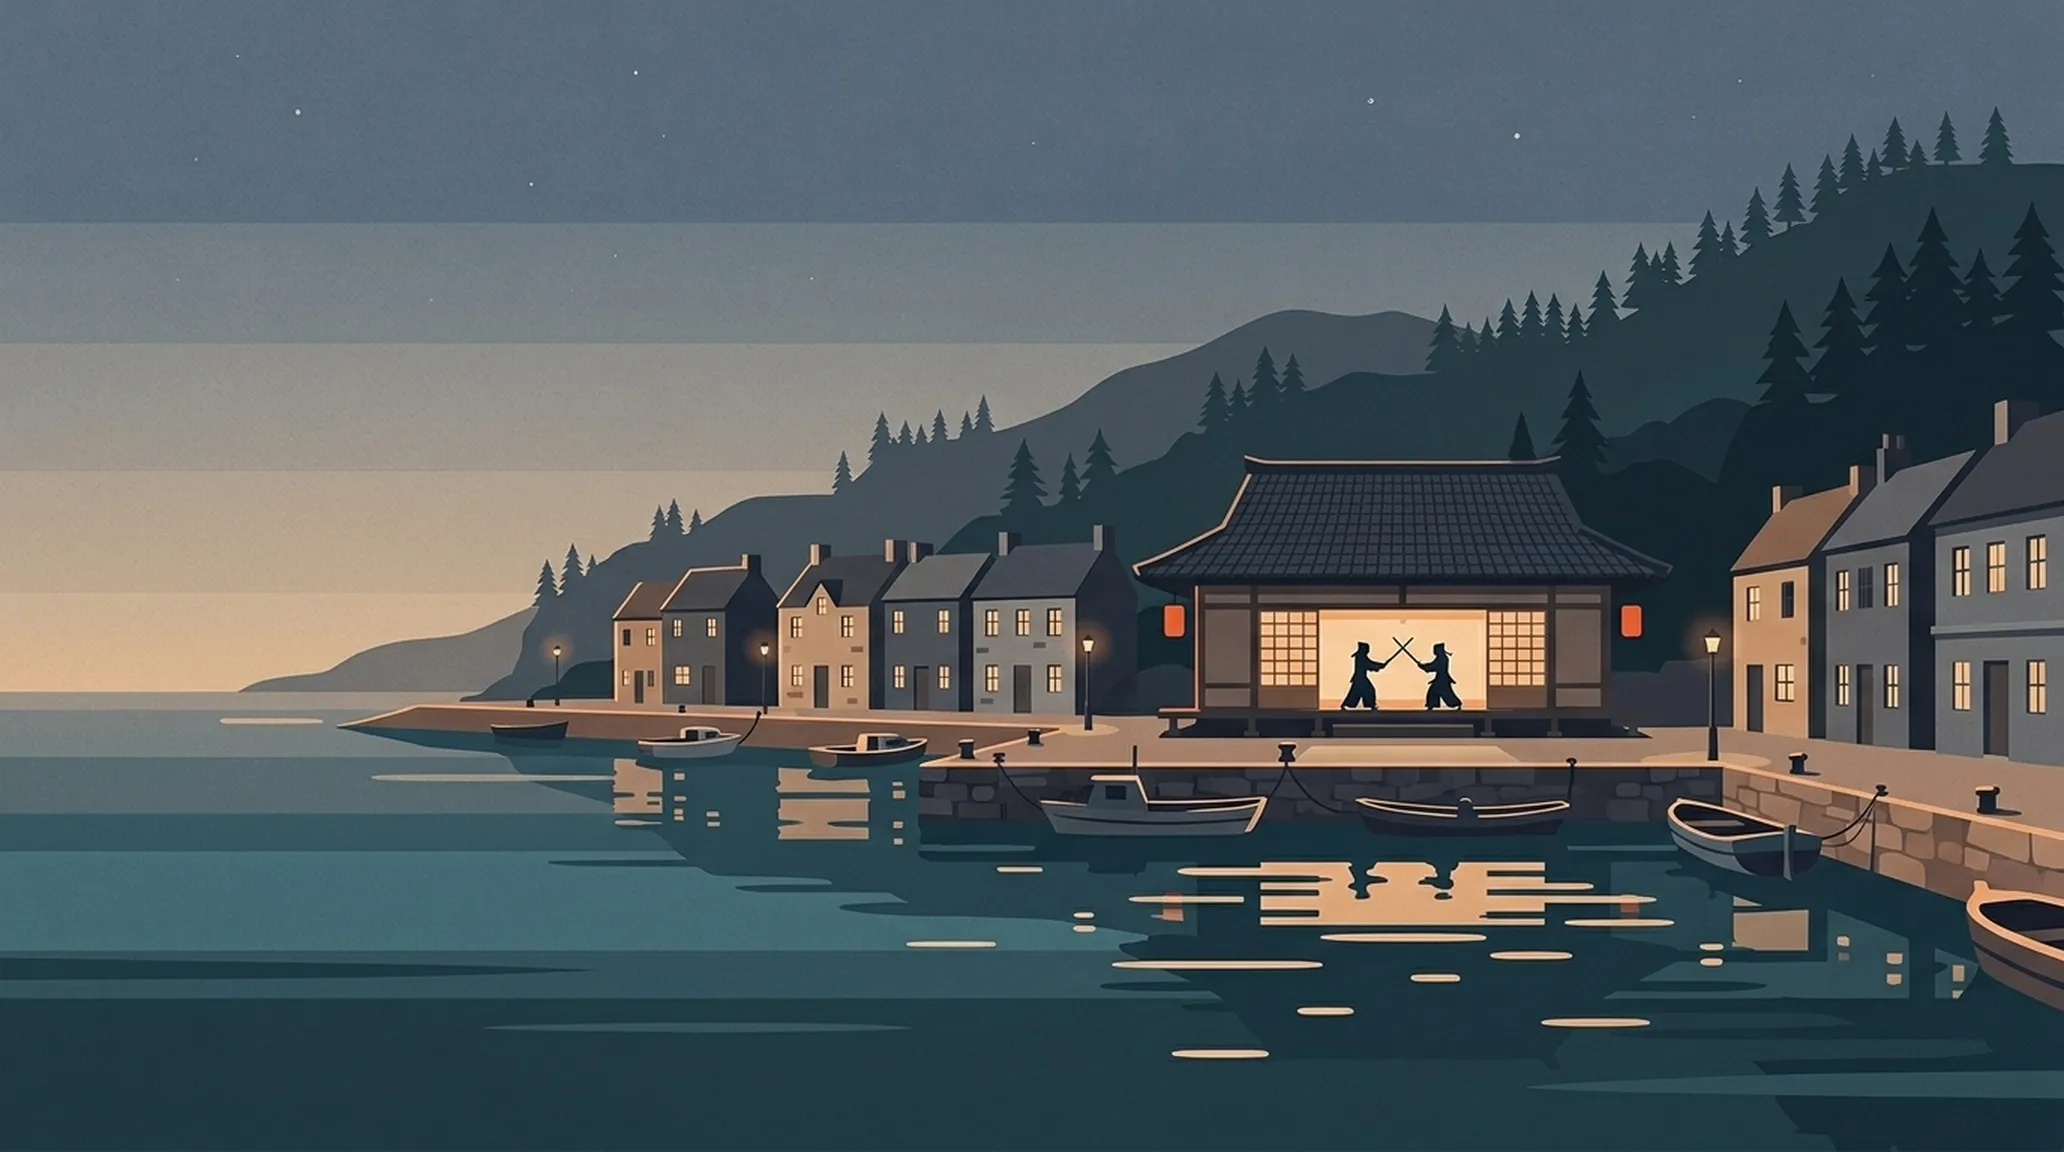
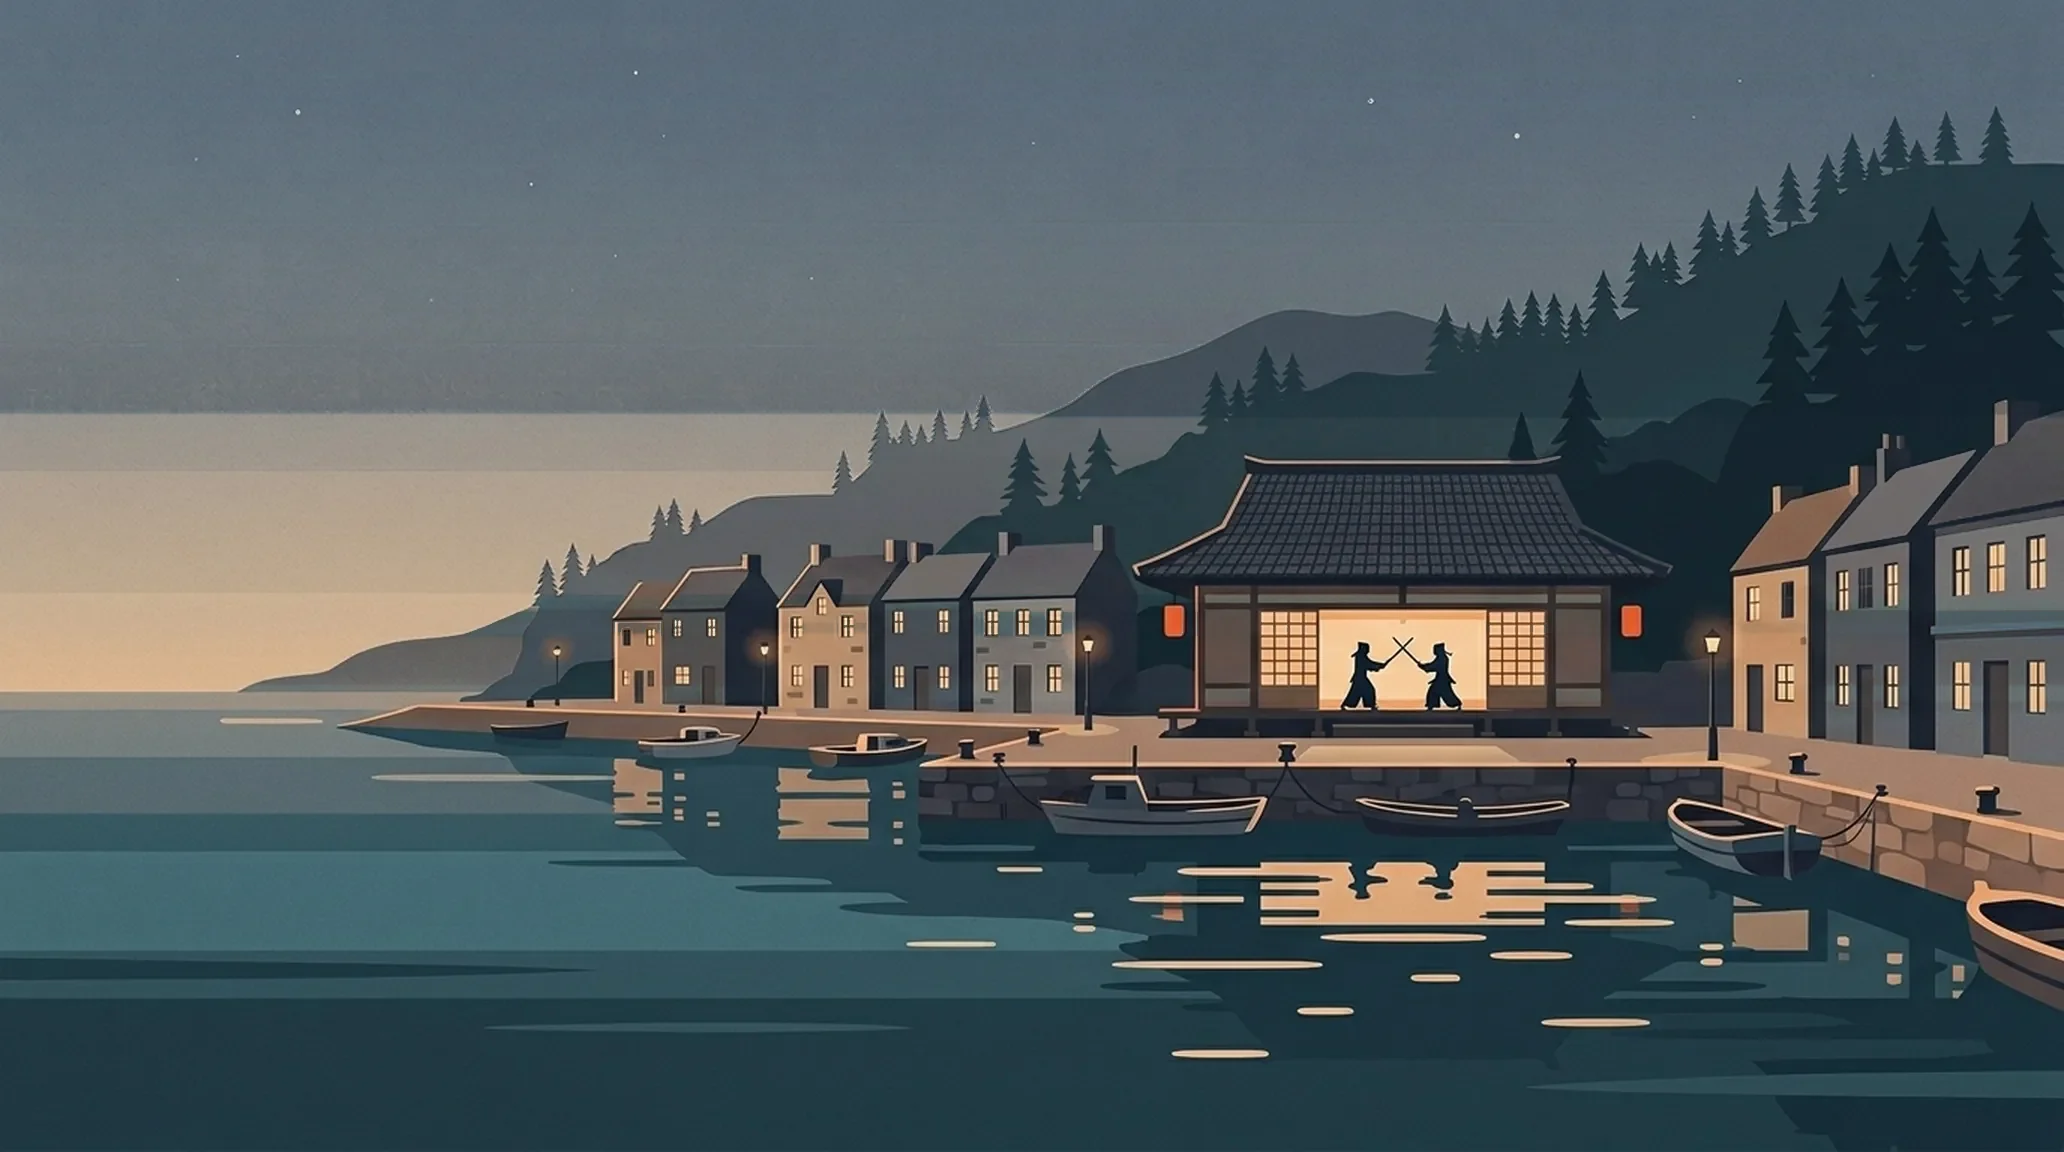
Phone scroll: sheets leave with their scene, water and skies without painted bands
- the engine marks a pinned scene while its stage holds the screen (data-held); on a phone a scene's bottom sheet
  slides down and away as the scene lets go, instead of riding up through the next painting and under the top bar
- art/deband.py smooths the flat tonal steps the generator painted into the water (surface, deep water) and the
  dusk skies (harbour, orchard), phone and desktop; originals kept in art/scratch/banded
- plates get a ?v= address so phones that cached the old paint for a week fetch the new one

diff --git a/src/pages/Home.tsx b/src/pages/Home.tsx
@@ -18,11 +18,13 @@ const S = Object.fromEntries(SCENES.map((s) => [s.id, s])) as Record<SceneId, Sc
 const metres = (m: number) => `${m > 0 ? "+" : m < 0 ? "−" : ""}${Math.abs(m).toLocaleString("en").replace(",", " ")} m`;
 
 /** A painted plate behind a scene: its own upright picture on a phone, never a crop. Loaded as its scene nears. */
+// the plates are cached for a week (public/_headers): a new paint of one gets a new address, so no phone keeps the old
+const PLATE = (name: string) => `/sea/${name}.webp?v=2`;
 function Plate({ name, phone }: { name: string; phone?: string }) {
   return (
     <picture className="plate">
-      {phone && <source media="(max-width: 720px)" srcSet={`/sea/${phone}.webp`} />}
-      <img src={`/sea/${name}.webp`} alt="" width="2064" height="1152" decoding="async" loading="lazy" />
+      {phone && <source media="(max-width: 720px)" srcSet={PLATE(phone)} />}
+      <img src={PLATE(name)} alt="" width="2064" height="1152" decoding="async" loading="lazy" />
     </picture>
   );
 }
@@ -206,7 +208,7 @@ export function Home() {
       </section>
 
       {/* ipporu, model by model: me at the side of the court, filming the match the models read */}
-      <div className="sea-under" data-pose="me-record" style={{ "--plate": "url(/sea/harbour.webp)" } as CSSProperties}>
+      <div className="sea-under" data-pose="me-record" style={{ "--plate": `url(${PLATE("harbour")})` } as CSSProperties}>
         <IpporuStory />
       </div>
 
@@ -243,7 +245,7 @@ export function Home() {
           {["doina", "tudor", "radu"].map((w) => <div key={w} className={`swim swim-${w}`}><Sprite name={`whale-${w}`} /></div>)}
         </div>
       </SeaScene>
-      <div className="sea-under deep" data-pose="me-scuba" style={{ "--plate": "url(/sea/deep-water.webp)" } as CSSProperties}>
+      <div className="sea-under deep" data-pose="me-scuba" style={{ "--plate": `url(${PLATE("deep-water")})` } as CSSProperties}>
         <SpeechStory />
       </div>
 

diff --git a/src/story/engine.ts b/src/story/engine.ts
@@ -58,11 +58,18 @@ export function startStories(): () => void {
   const pinned = [...document.querySelectorAll<HTMLElement>(".st")].map((root) => {
     const caps = [...root.querySelectorAll<HTMLElement>("[data-beat]")], beats = caps.length || 1;
     root.style.setProperty("--beats", String(beats));
-    return { root, caps, beats, list: parts(root), bar: root.querySelector<HTMLElement>(".st-bar"), cur: -1, u: -1, seen: false };
+    return { root, caps, beats, list: parts(root), bar: root.querySelector<HTMLElement>(".st-bar"), cur: -1, u: -1, seen: false, held: null as boolean | null };
   });
   const paint = (s: (typeof pinned)[number], force = false) => {
     let u = s.beats;
-    if (!reduce) { const r = s.root.getBoundingClientRect(); u = sceneProgress(r.top + scrollY, r.height, innerHeight, scrollY) * s.beats; }
+    if (!reduce) {
+      const r = s.root.getBoundingClientRect();
+      u = sceneProgress(r.top + scrollY, r.height, innerHeight, scrollY) * s.beats;
+      // the stage holds the screen only between its top reaching the top and its bottom reaching the bottom; outside
+      // that it scrolls like a page, and what was pinned to it (a phone's bottom sheet) has to step away first
+      const held = r.top <= 1 && r.bottom >= innerHeight - 1;
+      if (held !== s.held) { s.held = held; s.root.toggleAttribute("data-held", held); }
+    }
     if (!force && Math.abs(u - s.u) < 0.0005) return;
     s.u = u;
     draw(s.list, u);

diff --git a/src/pages/sea.css b/src/pages/sea.css
@@ -177,6 +177,10 @@
   .card h2 { font-size: 22px; margin-top: 6px; }
   .card-line { font-size: 15px; margin-top: 6px; }
   .card-more { display: none; max-height: 52svh; overflow-y: auto; overscroll-behavior: contain; }
+  /* the sheet belongs to the screen while its scene holds it: as the scene lets go it slides down and away, instead of
+     riding up through the next painting with the page */
+  .sea-scene .sea-caps:has(.card) { transition: transform 0.35s cubic-bezier(.2, .8, .2, 1), opacity 0.25s; }
+  .sea-scene:not([data-held]) .sea-caps:has(.card) { transform: translateY(105%); opacity: 0; pointer-events: none; }
   .card.open .card-more { display: block; }
   .card-stats { grid-template-columns: 1fr 1fr; margin-top: 14px; }
   .card-links { margin-top: 14px; }
@@ -295,4 +299,5 @@ html.sheet-open .me .me-sprite { pointer-events: none; }
 @media (prefers-reduced-motion: reduce), (scripting: none) {
   .sea-scene .st-stage { position: relative; min-height: 100svh; height: auto; overflow: visible; }
   .sea-scene .sea-caps { position: relative; left: auto; top: auto; margin: 0 auto; padding: 96px var(--gutter) 48px; width: min(760px, 100%); }
+  .sea-scene .sea-caps:has(.card) { transform: none !important; opacity: 1 !important; pointer-events: auto !important; }
 }

diff --git a/src/pages/home.test.tsx b/src/pages/home.test.tsx
@@ -19,7 +19,7 @@ test("the dive runs from the sky to the floor, in order, each scene with its dep
 test("every picture the page asks for is in public/", () => {
   const srcs = [...html.matchAll(/(?:src|srcSet|srcset)="(\/sea\/[^"]+)"/g), ...html.matchAll(/url\((\/sea\/[^)]+)\)/g)].map((m) => m[1]);
   expect(srcs.length).toBeGreaterThan(20);
-  for (const s of new Set(srcs)) expect(existsSync(`public${s}`), s).toBe(true);
+  for (const s of new Set(srcs)) expect(existsSync(`public${s.split("?")[0]}`), s).toBe(true); // ?v= is only a cache key
 });
 
 test("the page opens on the name, and the proof is on it", () => {

diff --git a/art/deband.py b/art/deband.py
@@ -1,0 +1,39 @@
+"""Smooth the flat tonal steps a generated water painting puts between depth zones.
+
+Each row's median colour is compared with a smooth gradient through all rows; the row is shifted by the difference.
+The steps go; everything drawn across them (light shafts, fish, particles) stays where it was. Each row's tone is first
+filtered down the picture, so a row's own noise is never copied into the correction; two passes.
+(Per-strip corrections were tried: they leave blocks in the shafts and smear the surface's waves.)
+    uv run --with numpy --with pillow art/deband.py in.webp out.webp [sky]
+With sky (a fraction of the height, 0.4): only a sky is smoothed. Rows below it are left alone (the correction fades
+out over the last tenth), and a pixel is corrected only as far as its colour is the sky's, so a hill, a tree or a lit
+window that reaches up into the sky keeps its own tone.
+"""
+import sys
+import numpy as np
+from PIL import Image
+
+src, dst = sys.argv[1], sys.argv[2]
+sky = float(sys.argv[3]) if len(sys.argv) > 3 else None
+im = np.asarray(Image.open(src).convert("RGB")).astype(np.float32)
+h = im.shape[0]
+sigma = h / 14                                   # wide enough to bridge a step, narrow enough to keep the depth fall-off
+x = np.arange(-3 * int(sigma), 3 * int(sigma) + 1)
+k = np.exp(-(x ** 2) / (2 * sigma ** 2)); k /= k.sum()
+def steps(p, n=15):
+    """the row profile with its row-to-row noise (waves, a shaft's edge) filtered out: only real steps are left"""
+    q = np.pad(p, ((n // 2, n // 2), (0, 0)), mode="edge")
+    return np.stack([np.median(q[i:i + n], axis=0) for i in range(len(p))])
+for _ in range(2):
+    row = steps(np.median(im, axis=1))           # (h, 3): the background tone of each row, the shafts mostly ignored
+    pad = np.pad(row, ((len(x) // 2, len(x) // 2), (0, 0)), mode="edge")
+    smooth = np.stack([np.convolve(pad[:, c], k, mode="valid") for c in range(3)], axis=1)
+    fix = np.broadcast_to((smooth - row)[:, None, :], im.shape).copy()
+    if sky is not None:
+        ys = np.arange(h) / h
+        fix *= np.clip((sky - ys) / (sky * 0.1), 0, 1)[:, None, None]
+        near = np.linalg.norm(im - row[:, None, :], axis=2)
+        fix *= np.exp(-(near ** 2) / (2 * 28.0 ** 2))[:, :, None]
+    im = np.clip(im + fix, 0, 255)
+Image.fromarray(im.astype(np.uint8)).save(dst, quality=86, method=6)
+print(dst)
